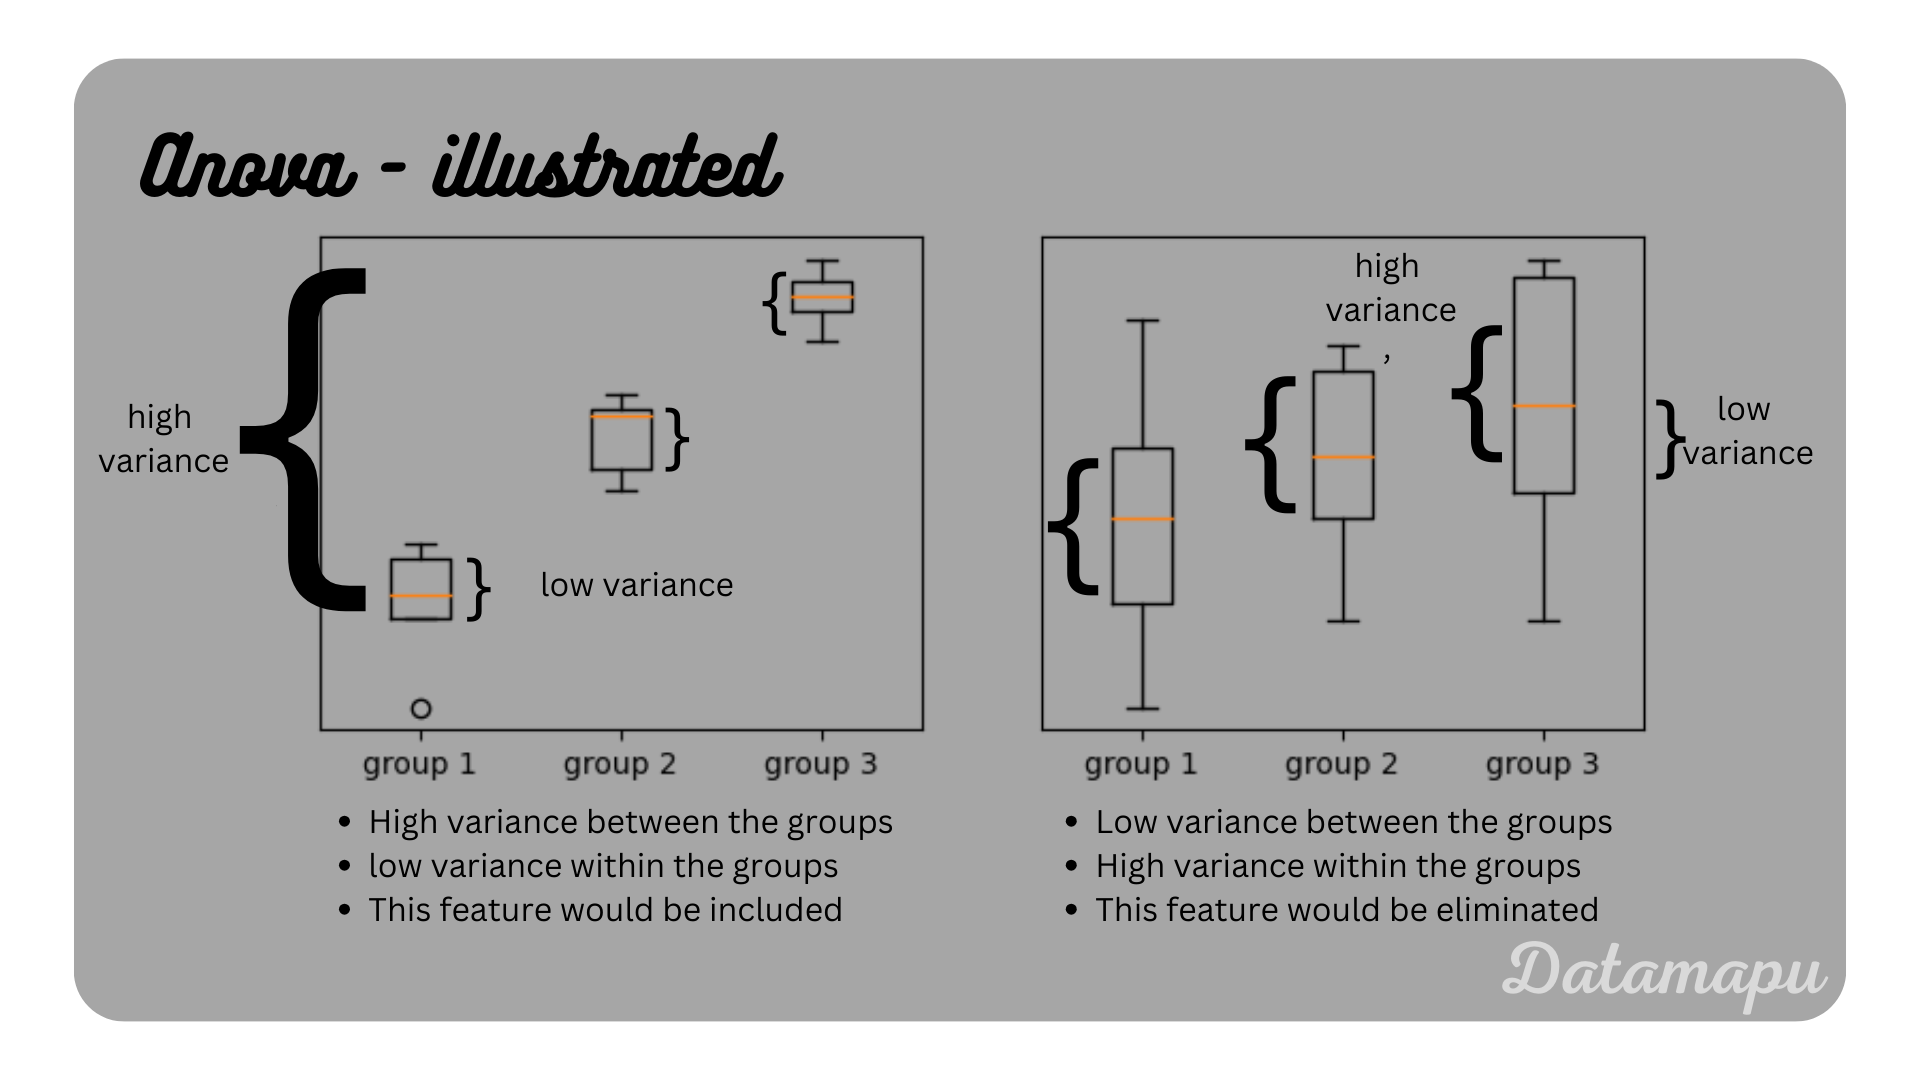
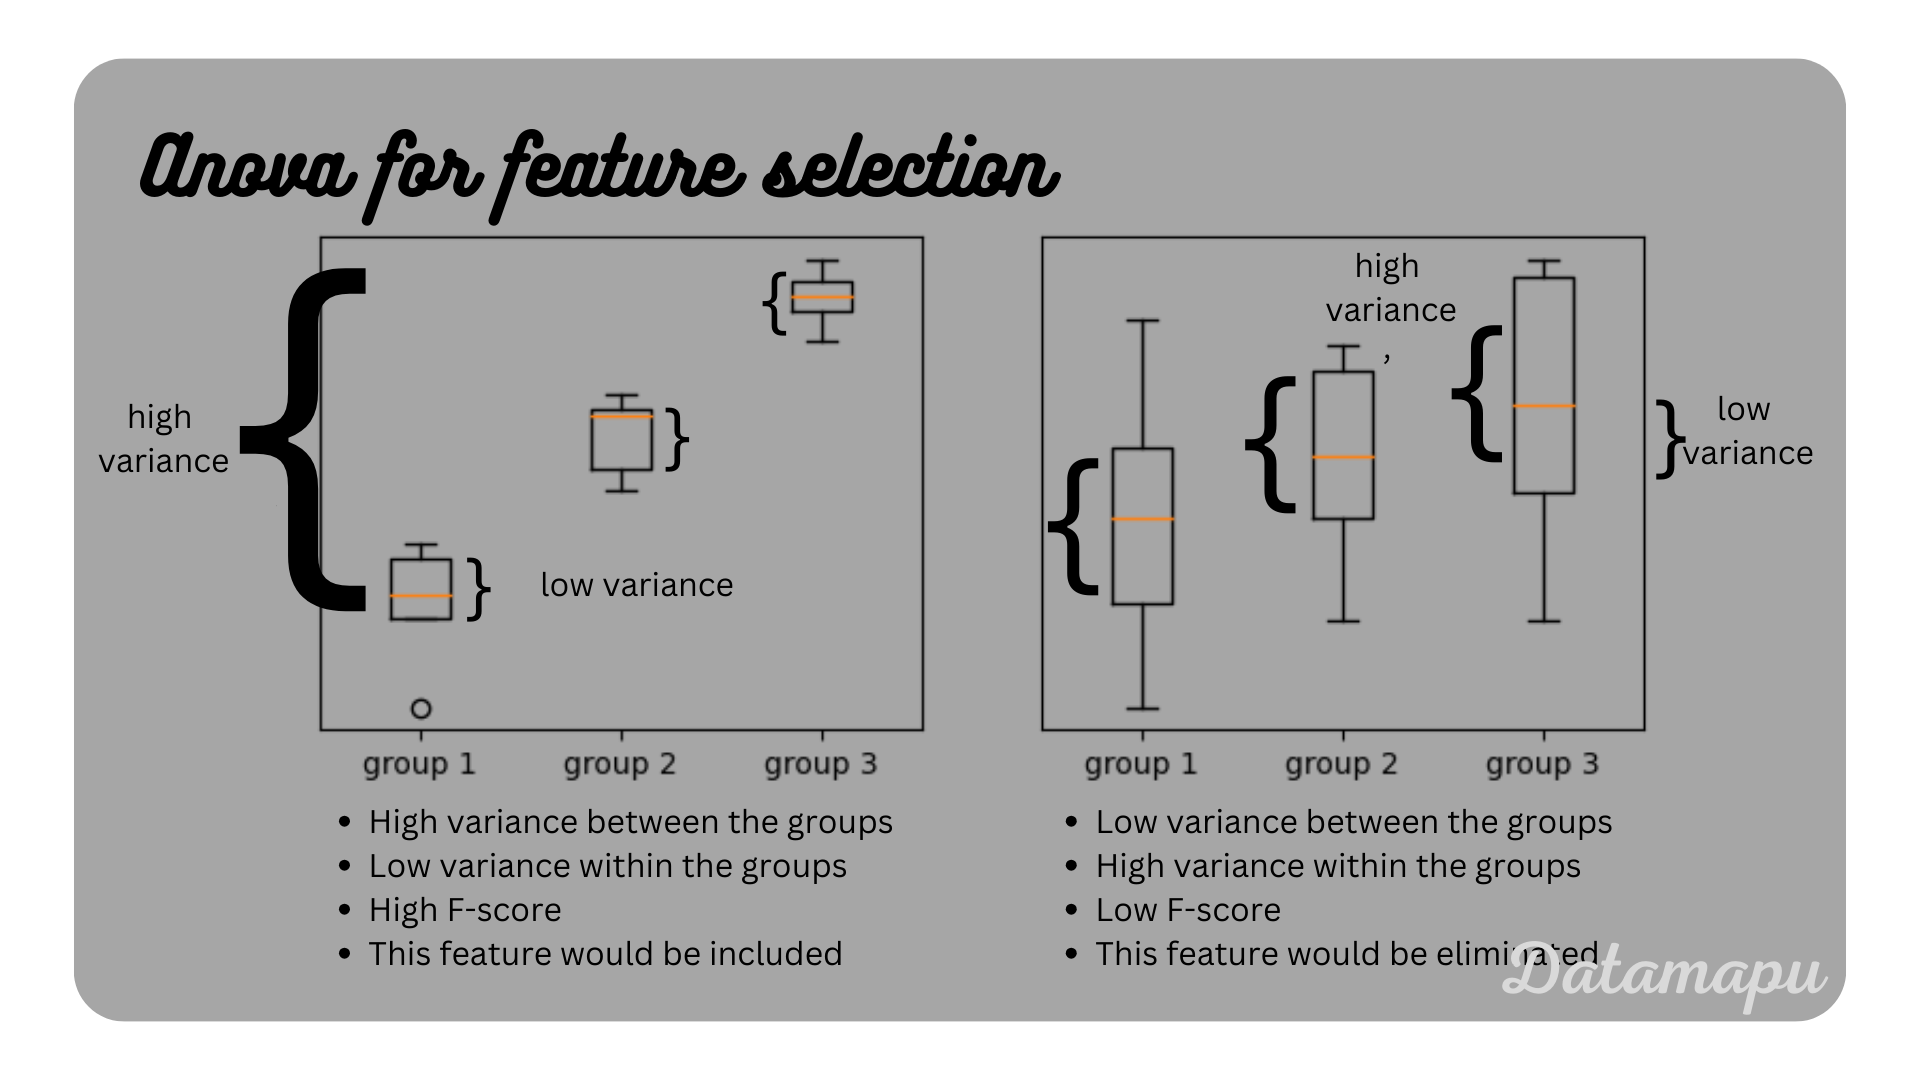
feature selection

Changed region(s): [[0.1875, 0.7944, 0.4375, 0.9167], [0.1875, 0.1222, 0.5625, 0.2139], [0.5625, 0.825, 0.8438, 0.9167]]

diff --git a/content/posts/ml_concepts/feature_selection.md b/content/posts/ml_concepts/feature_selection.md
@@ -10,9 +10,9 @@ keywords = ["Data Science", "Machine Learning", "Deep Learning", "Classification
 
 ## Introduction
 
-*Feature Selection* is the process to determine te most suitable subset of the total number of available features for modelling. It helps to understand which of the features contribute most to the target data. This is usefull to
+*Feature Selection* is the process to determine the most suitable subset of the total number of available features for modelling. It helps to understand which of the features contribute most to the target data. This is usefull to
 
-1. **Improve Model Performance.** Redundant and irrelevant features may be misleading for the model. Additionally if the feature space is too large compared to the sample size we call this the [curse of dimensionality](https://en.wikipedia.org/wiki/Curse_of_dimensionality), which may reduce the model's performance.
+1. **Improve Model Performance.** Redundant and irrelevant features may be misleading for the model. Additionally if the feature space is too large compared to the sample size. This is called the [curse of dimensionality](https://en.wikipedia.org/wiki/Curse_of_dimensionality) and may reduce the model's performance.
 
 2. **Reduce Overfitting.** Feature selection can reduce overfitting in different ways. Removing features that are not useful for the model, reduces the noise in the data which may irritate the model. when highly correlated features are included the model may give them more weight, which may lead to overfitting. With removing highly correlated features the redundancy is reduced.
 
@@ -22,7 +22,7 @@ keywords = ["Data Science", "Machine Learning", "Deep Learning", "Classification
 
 ## Feature Selection Methods
 
-In this post we will only discuss feature selection methods for [supervised machine learning]({{< ref "supervised_unsupervised">}}) algorithms, that is for data where labels are available. Three types of feature selection methods are differentiated: wrapper methods (e.g. forward, backward, and stepwise selection), filter methods (e.g. Pearson's correlation coefficient, LDA, ANOVA, and chi square), and embedded methods (e.g. Lasso, Ridge, Decision Tree). **We will present a high level overview of each of the methods below.**
+In this post we will only discuss feature selection methods for [supervised machine learning]({{< ref "supervised_unsupervised">}}) algorithms, that is for data where labels are available. Three types of feature selection methods are differentiated: wrapper methods (e.g. forward, backward, and stepwise selection), filter methods (e.g. Pearson's correlation coefficient, LDA, ANOVA, and chi square), and embedded methods (e.g. Lasso regulation and Decision Tree). **We will present a high level overview of each of the methods below.** 
 
 ### Wrapper Methods
 
@@ -36,44 +36,35 @@ Wrapper methods base on training a machine learning model on different subsets o
 
 ### Filter Methods
 
-In contrast to wrapper methods filter methods are not depending on a Machine Learning Model, but are applied when the data is preprocessed, i.e. before the training starts. Statistical relationships between the features and the target are used to identify the most significant features. Filter methods are computational lighter than wrapper methods, but the selection is more subjective as their is no exact rule for the features that are selected. Which exact method is suitable also depends on whether the input features and target data are numerical or cateorical.
+In contrast to wrapper methods filter methods are not depending on a Machine Learning Model, but are applied when the data is preprocessed, i.e. before the training starts. Statistical relationships between the features and the target are used to identify the most significant features. Filter methods are computational lighter than wrapper methods, but the selection is more subjective as their is no exact rule for the features that are selected. Which exact method is suitable also depends on whether the input features and target data are numerical or categorical.
 
 1. **Pearson's Correlation Coefficient.** Pearson' correlation coefficient is suitable for numerical input features and target data.
-The correlation coefficient measures the linear relationship between two variables. It takes values between $-1$ and $1$, with $-1$ meaning perfectly negative correlated, $1$ perfectly positive correlated and $0$ meaning that the variables are not correlated. To select the most important features the correlation between each feature and the target variable is calculated. Then features with the highest correlations are selected for modelling. This can be done by setting a threshold of e.g. $0.5$ or $0.6$ and features with a higher correlaton with the target are used. The correlation coefficient can also be used to find mulitcollinarity within the features, which may disturb the training and should be removed. If for example two features have a high correlation with the target variable, but also have a high correlation among each other only one should be used.
+The correlation coefficient measures the linear relationship between two variables. It takes values between $-1$ and $1$, with $-1$ meaning perfectly negative correlated, $1$ perfectly positive correlated and $0$ meaning that the variables are not correlated. To select the most important features the correlation between each feature and the target variable is calculated. Then features with the highest absolute correlations are selected for modelling. This can be done by setting a threshold of e.g. $\pm0.5$ or $\pm0.6$ and features with a higher correlaton with the target are used. The correlation coefficient can also be used to find [mulitcollinarity]({{< ref "linear_regression#assumptions">}}) within the features, which may disturb the training and should be removed. If for example two features have a high correlation with the target variable, but also have a high correlation among each other only one should be used.
 
-2. **Linear Discriminant Analysis (LDA).** LDA is a supervised machine learning algorithm for classification problems and that is used to reduce the dimensionality. As we consider classification problems, the target data needs to be cateorical. LDA aims to find a linear combination of the features such that these categories are maximal separated. Loosly speaking this is done by projecting the data onto coordinate system, such that the distance of the means of the classes is maximized and their scattering is minimized. To reduce the features only the first dimensions of this new space are selected as input features.
+![correlation](/images/feature_selection/correlation.png)
+*Illustration of feature selection using pearson's correlation coefficient*
+
+2. **Linear Discriminant Analysis (LDA).** LDA is a supervised machine learning algorithm for classification problems and that is used to reduce the dimensionality. As we consider classification problems, the target data needs to be categorical. LDA aims to find a linear combination of the features such that these categories are maximal separated. Loosly speaking this is done by projecting the data onto coordinate system, such that the distance of the means of the classes is maximized and their scattering is minimized. To reduce the features only the first dimensions of this new space are selected as input features.
 
 3. **Analysis of Variance (ANOVA).** ANOVA can be used when the target data is categorical. It aims to maximize the variance between the different classes, while minimizing the variance within each class. In other words it determines whether the means of two or more groups for a particular feature differ significantly. For each feature the so-called *F-Score* is calculated, which is defined as the fraction of the variance between the groups devided by the variance within the groups. A feature is considered as important if the F-score is high. If a feature has a low variance between the classes, but a high variance within each class it is not considered as important, because it cannot be used to separate the classes. Two examples of a high F-score and a low F-score are illustrated in the plot below.
 
 ![anova](/images/feature_selection/anova.png)
-*Illustration of variance within and between group variance.*
+*Illustration of variance within and between group variance in ANOVA.*
 
 
 4. **Chi Square.** The chi square test can be used to detect if an input feature has a strong relationship to the target data. It is used for classification problems, when both input and target features are categorical. The *Chi-square score* is calculated for each feature and the target variable. The Chi-square score compares the observed and the expected counts of a category. A high score indicates a dependency between the feature and the target variable. The features with the highest scores are selected for training.
 
 ### Embedded Methods
 
-Embedded methods use a machine learning algorithm to select the most important features. This algorithm maybe separated from the model we want to fit to our data and only used for feature selection or the exact same model can be used for prediction as well. This algorithm is just fitted once, i.e. in contrast to wrapper methods no retraining is needed.
+Embedded methods use a machine learning algorithm to select the most important features. The name results from the fact that the feature selection method is emdedded into the machine learning algorithm itself. However, this algorithm maybe also separated from the model used for training and only used for feature selection. We could fit one of the mentioned algorithms to our data, select the important features and then use them in a different model. This algorithm is just fitted once, i.e. in contrast to wrapper methods no retraining is needed. On the other hand as in the wrapper methods interaction between the features is incoorparated. They thus provide the advantages of both methods. Two examples are
 
-1. **Lasso regulation.** *Lasso (L1) regulation* is usually used to avoid overfitting by adding a penalty to the loss. A linear model can be used together with a L1 regulation to remove features that are not relevant. In a linear model the penalty is applied to the coefficients and L1 regularisation can set the coefficients of non-relevant features to zero. These features can then be removed.
-
-2. **Ridge regulation.**
+1. **Lasso Regulation.** *Lasso (L1) regulation* is usually used to avoid overfitting by adding a penalty to the loss. A linear model can be used together with a L1 regulation to remove features that are not relevant. In a linear model the penalty is applied to the coefficients and L1 regularisation can set the coefficients of non-relevant features to zero. These features can then be removed.
 
 3. **Random Forest.** *Random Forests* are built as a combination of several Decision Trees. A Decision Tree is constructed by separating the data in each node such that the impurity of the following node is maximal reduced. There are different ways how to measure the impurity, especially depending whether a classification or a regression is considered. The more the impurity is decreased the more important is this feature. The most important features are thus selected at the top of the tree and the less important features are more at the bottom. By pruning the tree, i.e. setting a maximal depth we can consider the features below that depth as not important. In a Random Forest the decrease in impurity of each feature is then averaged over all trees. 
 
-< WHich is suited for which type of variables numerical - categorical -> table! >
-
-### Conclusion
-
-Wrapper methods are able to evaluate a group of features together and analyze the interaction of them, while filter methods consider each feature individually. They usually result in a higher model performance than Filter methods.  Wrapper methods are computationaly more expensive and the feature selection is optimized for a specific model. Using a different model the results may change.  
-
-## Example
-**Feature Selection: Regression**
-
-correlation
-
-**Feature Selection: Classification**
-
-ANOVA
+![selection](/images/feature_selection/selection.png)
+*Overview about the discussed methods for feature selection*
 
 ## Summary
+
+There are three different types of feature selection methods: wrapper methods, filter methods, and embedded methods. This post explains the most common ones, but of course there are much more. Wrapper methods are able to evaluate a group of features together and analyze the interaction of them, while filter methods consider each feature individually. They usually result in a higher model performance than Filter methods.  However, wrapper methods are computationaly more expensive and the feature selection is optimized for a specific model. Using a different model the results may change. Embedded methods use a dedicated machine learning model for the feature selection process and they combine both advantages of the other methods, i.e. they consider feature interactions and they are computationally lightweight.
